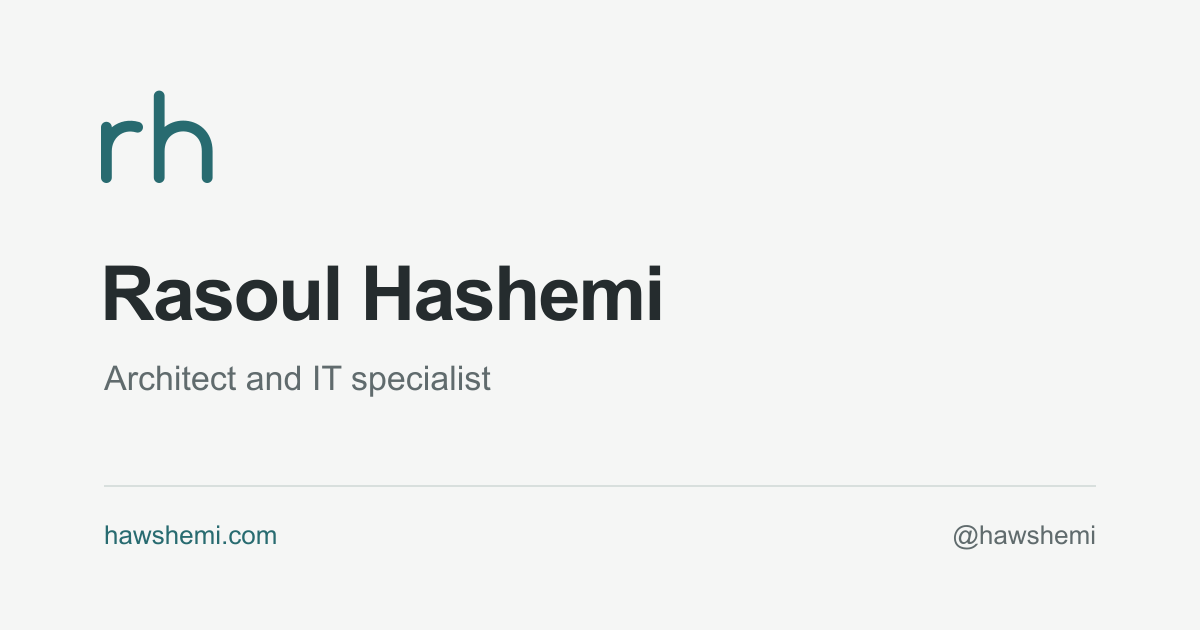
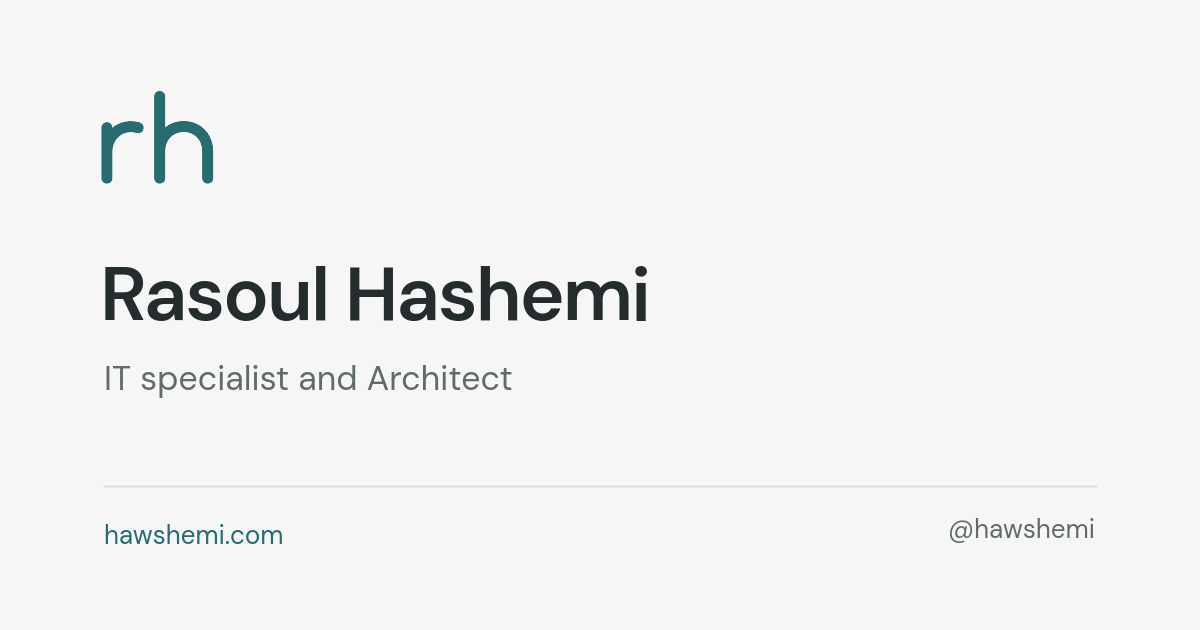
Match social preview to site typography

diff --git a/public/fa/index.html b/public/fa/index.html
@@ -38,10 +38,10 @@
     <meta property="og:image:type" content="image/png">
     <meta property="og:image:width" content="1200">
     <meta property="og:image:height" content="630">
-    <meta property="og:image:alt" content="رسول هاشمی، معمار و متخصص فناوری اطلاعات، همراه با نشان Hawshemi.">
+    <meta property="og:image:alt" content="رسول هاشمی، متخصص فناوری اطلاعات و معمار، همراه با نشان Hawshemi.">
     <meta name="twitter:card" content="summary_large_image">
     <meta name="twitter:image" content="https://hawshemi.com/social-preview.png">
-    <meta name="twitter:image:alt" content="رسول هاشمی، معمار و متخصص فناوری اطلاعات، همراه با نشان Hawshemi.">
+    <meta name="twitter:image:alt" content="رسول هاشمی، متخصص فناوری اطلاعات و معمار، همراه با نشان Hawshemi.">
     <script type="application/ld+json">
       {
         "@context": "https://schema.org",

diff --git a/public/index.html b/public/index.html
@@ -38,10 +38,10 @@
     <meta property="og:image:type" content="image/png">
     <meta property="og:image:width" content="1200">
     <meta property="og:image:height" content="630">
-    <meta property="og:image:alt" content="Rasoul Hashemi, architect and IT specialist, with the Hawshemi monogram.">
+    <meta property="og:image:alt" content="Rasoul Hashemi, IT specialist and architect, with the Hawshemi monogram.">
     <meta name="twitter:card" content="summary_large_image">
     <meta name="twitter:image" content="https://hawshemi.com/social-preview.png">
-    <meta name="twitter:image:alt" content="Rasoul Hashemi, architect and IT specialist, with the Hawshemi monogram.">
+    <meta name="twitter:image:alt" content="Rasoul Hashemi, IT specialist and architect, with the Hawshemi monogram.">
     <script type="application/ld+json">
       {
         "@context": "https://schema.org",
